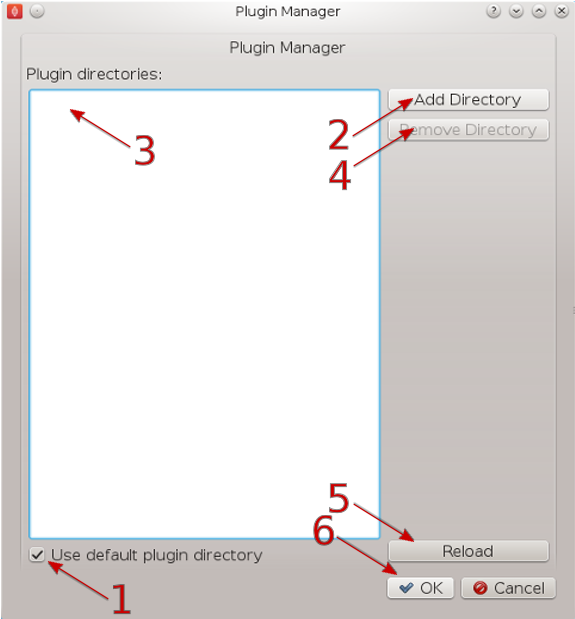
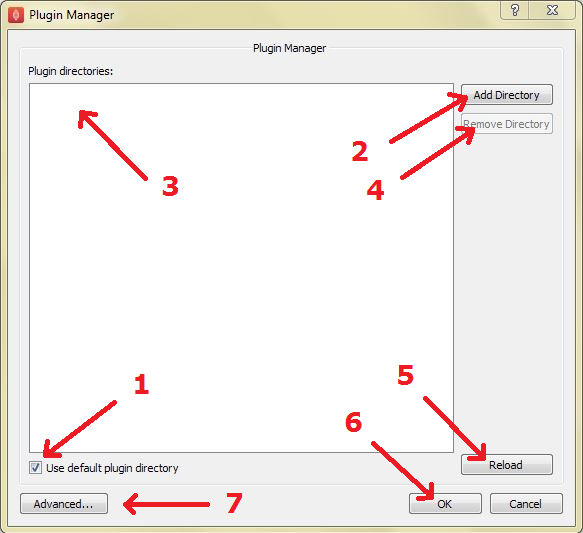
Updated documentation to describe additional features.
Added description for Log Information window.
Added description for Advanced dialog and plugin updater.
Updated misc documentation in Plugin Wizard.
Added note about automatic plugin downloads in create tutorial.
Updated and added images for misc, log info and advanced dialogs.

diff --git a/manual/MAP-feature-demonstration.rst b/manual/MAP-feature-demonstration.rst
@@ -37,7 +37,7 @@ In the Step box we will only see two steps, this is because we have only loaded 
 Menu Bar
 --------
 
-The Menu bar provides a selection of drop down menus for accessing the applications functions.  The File menu provides access to opening, importing, closing workspaces as well as quitting the application.  The Edit menu provides access to the undo/redo functionality.  The Tools menu provides access to the Plugin Manager tool, Physiome Model Repository (PMR) tool and the Annotation tool.  The Help menu provides access to the about box which contains information on contributors and the license that the MAP application is released under.
+The Menu bar provides a selection of drop down menus for accessing the applications functions.  The File menu provides access to opening, importing, closing workspaces as well as quitting the application.  The Edit menu provides access to the undo/redo functionality.  The View menu provides access to the application's log entries.  The Tools menu provides access to the Plugin Manager tool, Physiome Model Repository (PMR) tool and the Annotation tool.  The Help menu provides access to the about box which contains information on contributors and the license that the MAP application is released under.
 
 The 'New' menu has two sub-menus: 'New/PMR Workflow' and 'New/Workflow'.  The PMR Workflow menu command will create a new workflow in the chosen directory and use Mercurial to track changes to your project.  When saving the workflow the contents of the project will be transferred to PMR via Mercurial, this transfer is managed by the application.  For more information on the benefits and use of PMR please read the documentation available at `read-the-docs`_ .
 
@@ -74,7 +74,7 @@ MAP currently has three tools that may be used to aide the management of the wor
 Plugin Manager Tool
 -------------------
 
-The plugin tool is a simple tool that enables the user to add or remove additional plugin directories.  MAP comes with some default plugins which the user can decide to load or not by checking or unchecking the check box (1) at the bottom of the dialog.  External directories are added with the add directory button (2).  Directories are removed by selecting the required directory in the Plugin directories list (3) and clicking the remove directory button (4).  To reload plugins from the current plugin directories use the reload button (5).
+The plugin tool is a simple tool that enables the user to add or remove additional plugin directories.  MAP comes with some default plugins which the user can decide to load or not by checking or unchecking the check box (1) at the bottom of the dialog.  External directories are added with the add directory button (2).  Directories are removed by selecting the required directory in the Plugin directories list (3) and clicking the remove directory button (4).  To reload plugins from the current plugin directories use the reload button (5).  Outdated plugins can also be updated using the Advanced dialog (7).
 
 .. note::
 
@@ -84,7 +84,16 @@ The plugin tool is a simple tool that enables the user to add or remove addition
    :align: center
    :width: 25%
 
-Whilst additions to the plugin path will be visible immediately in the Step box deletions will not be apparent until the next time the MAP Client is started.  This behaviour is a side-effect of the Python programming language.  
+Whilst additions to the plugin path will be visible immediately in the Step box deletions will not be apparent until the next time the MAP Client is started.  This behaviour is a side-effect of the Python programming language.
+
+Advanced Dialog
+^^^^^^^^^^^^^^^
+
+As a result of forward compatibility issues between Python 2 and Python 3 a number of updates may be required for older plugins to work properly in MAP Client.  The Advanced dialog provides a means of analysing the plugins in the directories listed in the Plugin Manager dialog (1) and applying a range of fixers for syntax, indentation and missing plugin information (2).  Once updates have been successfully applied to plugins the Step Box will update automatically and any plugins requiring additional dependencies will be displayed. It is recommended that you analyse and update all plugins before continuing with workflow creation.  We are currently updating all available plugins on the 'mapclient-plugins' GitHub repository to ensure that these compatibility issues are resolved.
+
+.. figure:: images/advanced_dialog.png
+   :align: center
+   :width: 30%
 
 Physiome Model Repository (PMR) Tool
 ------------------------------------
@@ -124,3 +133,15 @@ The main part of the Annotation tool shows the current annotation from the curre
    :width: 25%
 
 In the above image we can see the list of annotations that have been added to the current target.  This is a simplified view of the annotation with the prefix of the terms removed for clarity.
+
+Additional Features
+===================
+
+Log Information Window
+----------------------
+
+The Log Information window displays the application logs for the current session.  This includes information about plugin loading, plugin updates, http requests and general successful or failed processes executed by the program.  Each log is defined by a level (DEBUG, INFO, WARNING, ERROR or CRITICAL) and contains a description and a recorded time.  Logs are displayed in chronological order and can be sorted according to level, time or description(3).  If you wish to access more detailed information about an individual log simply double-click on a log entry or click the Details button (2).  This displays the file from which the log was made in addition to the information described previously. It is also possible to load the log information from a previous MAP Client session using the Load button (1). The Log Information window provides useful debugging information and should be accessed on a regular basis.
+
+.. figure:: images/log_information.png
+   :align: center
+   :width: 30%

diff --git a/manual/MAP-plugin-wizard.rst b/manual/MAP-plugin-wizard.rst
@@ -118,7 +118,7 @@ The configuration page can help setup the configuration dialog for the step.  Th
 Miscellaneous Page
 ==================
 
-The miscellaneous page sets a number of properties that are not important to the function of the step.  The author name(s) for the step can be set in the text box (1).  The author's name appears when the step plugin is loaded and is not seen or used anywhere else.  The category for the step can be set in the text box (2).  The category determines the group that the step appears in in the Step Box of the application.
+The miscellaneous page sets a number of properties that are not important to the function of the step.  The author name(s) for the step can be set in the text box (1).  The author's name appears when the step plugin is loaded and is not seen or used anywhere else.  The category for the step can be set in the text box (2).   The category determines the group that the step appears in in the Step Box of the application.  We encourage plugin developers to make their plugins available to download from an online repository (eg. GitHub or Bitbucket) to promote resource sharing and improve the time and ease with which new workflows can be created. The download link for the plugin from an online repository can be set in the text box (3). This must link to a .zip file download and it is highly recommended that this be provided during plugin creation to allow workflows and their required plugins to be shared easily.
 
 .. figure:: images/plugin_wizard_misc_1.png
    :align: center

diff --git a/manual/MAP-tutorial-create.rst b/manual/MAP-tutorial-create.rst
@@ -84,6 +84,9 @@ We can also use the combobox at the bottom of the dialog (`Figure 1`_) to set th
 
 MAP is not setup to work with streamed resources so we must download the workspace from PMR to our local disk.
 
+.. note::
+   If you do not have all of the plugins required to run the workflow being imported from PMR to your machine you will be prompted to download and install these to a directory. Please ensure you either (1) select a directory that is currently listed in the Plugin Manager Tool or alternatively (2) download to a new directory and add this to the listed directories in the Plugin Manager.
+
 Configuring the Point Cloud Step
 --------------------------------
 
